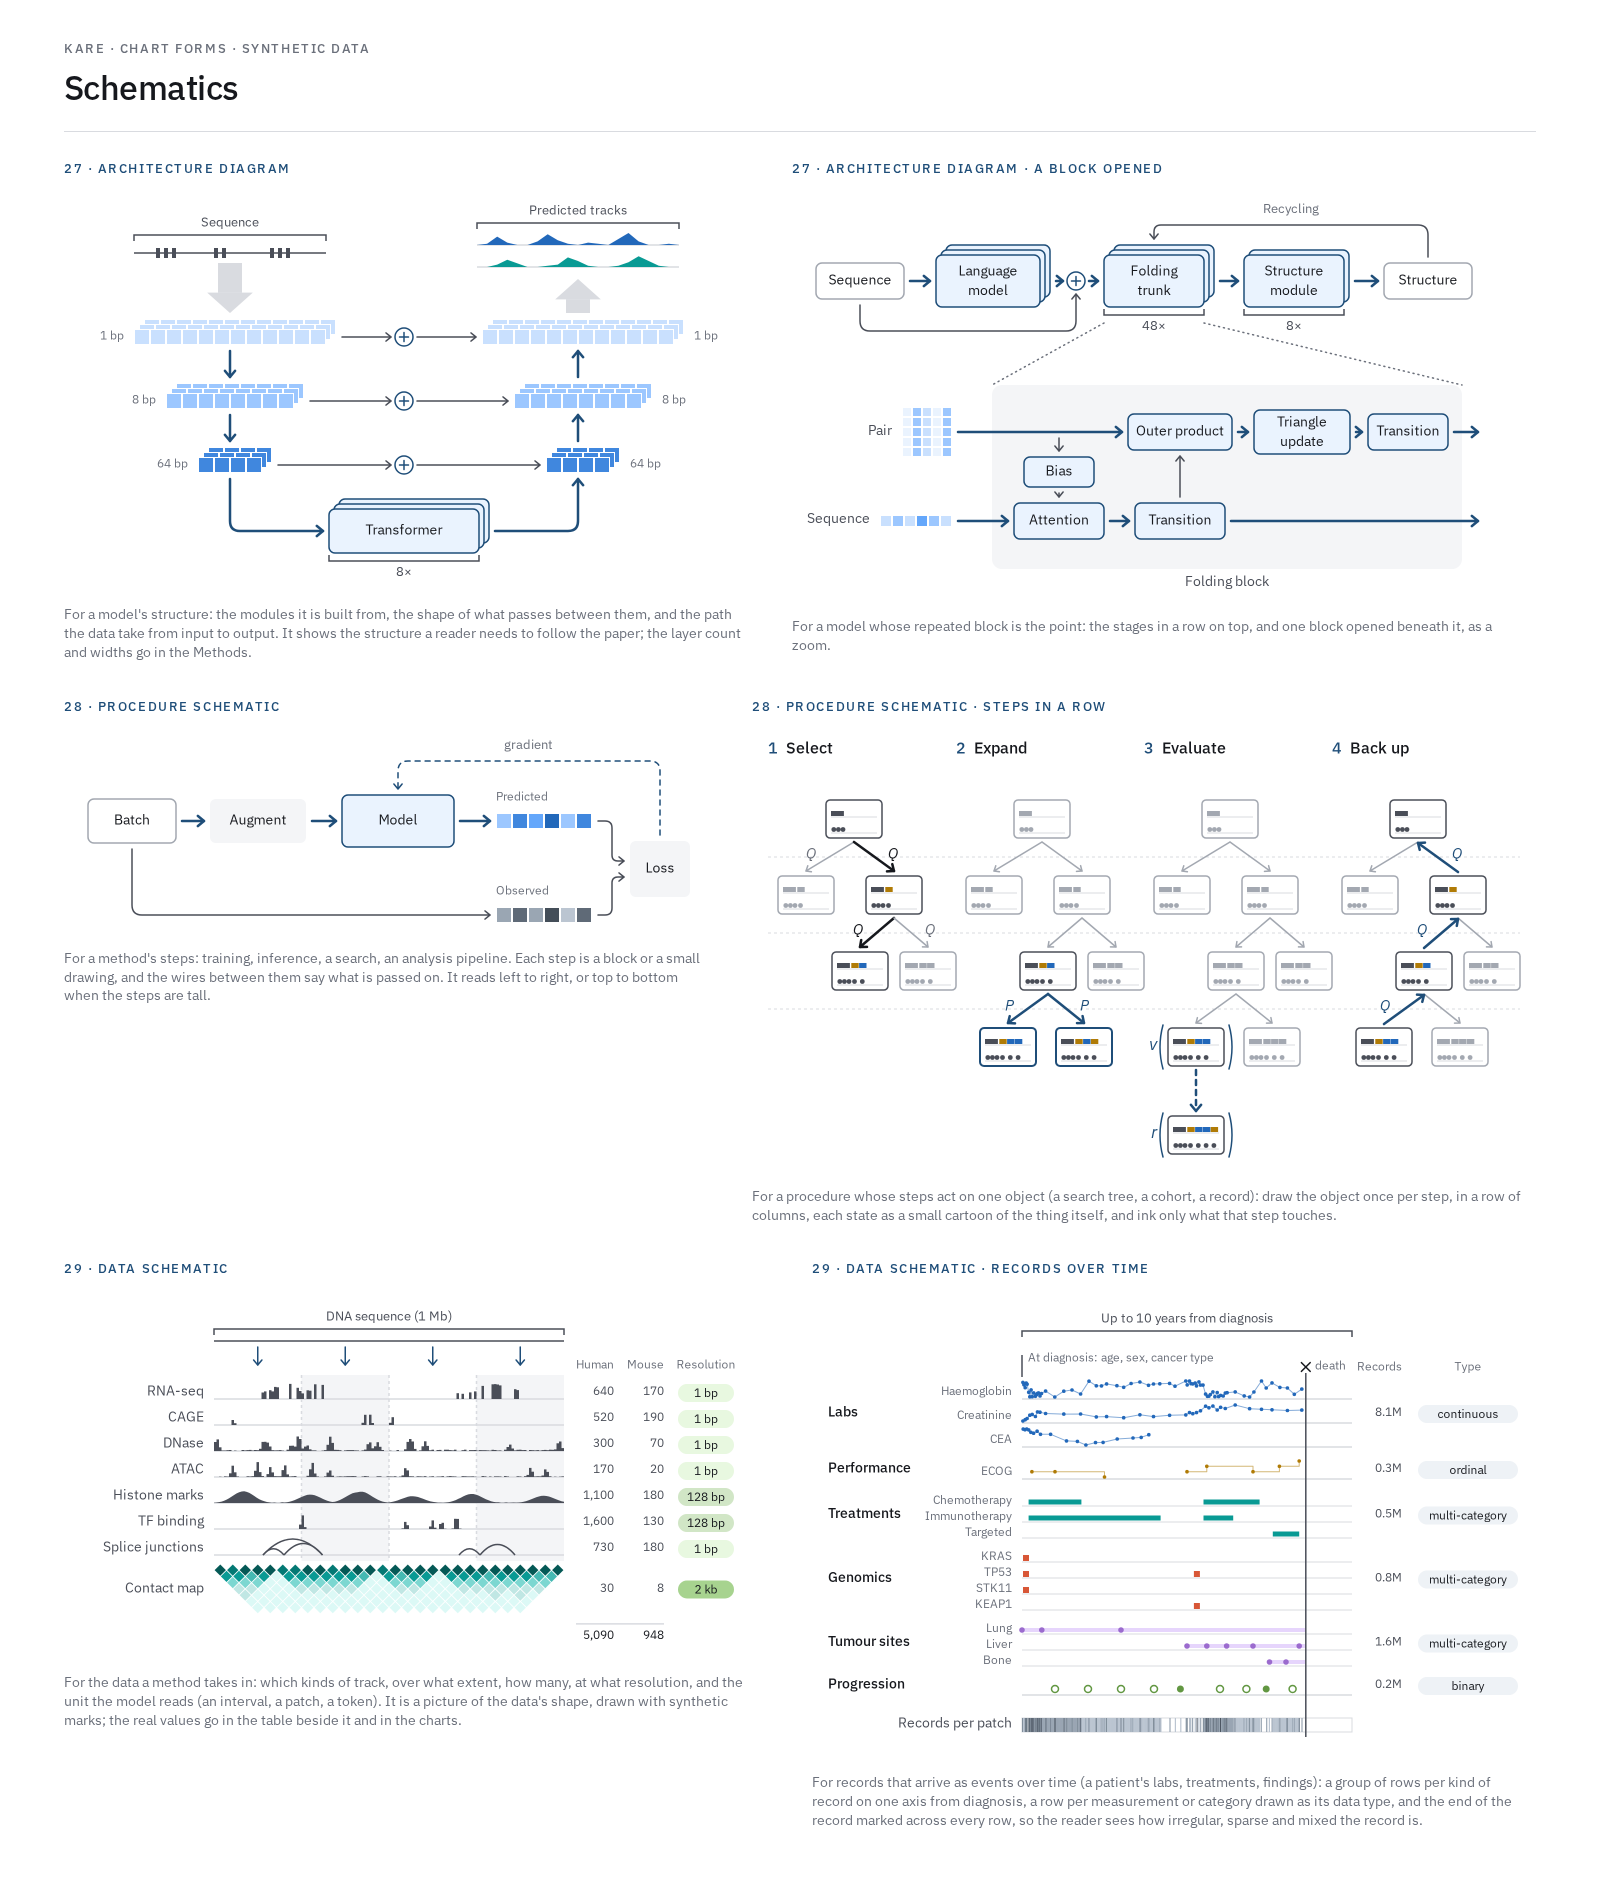
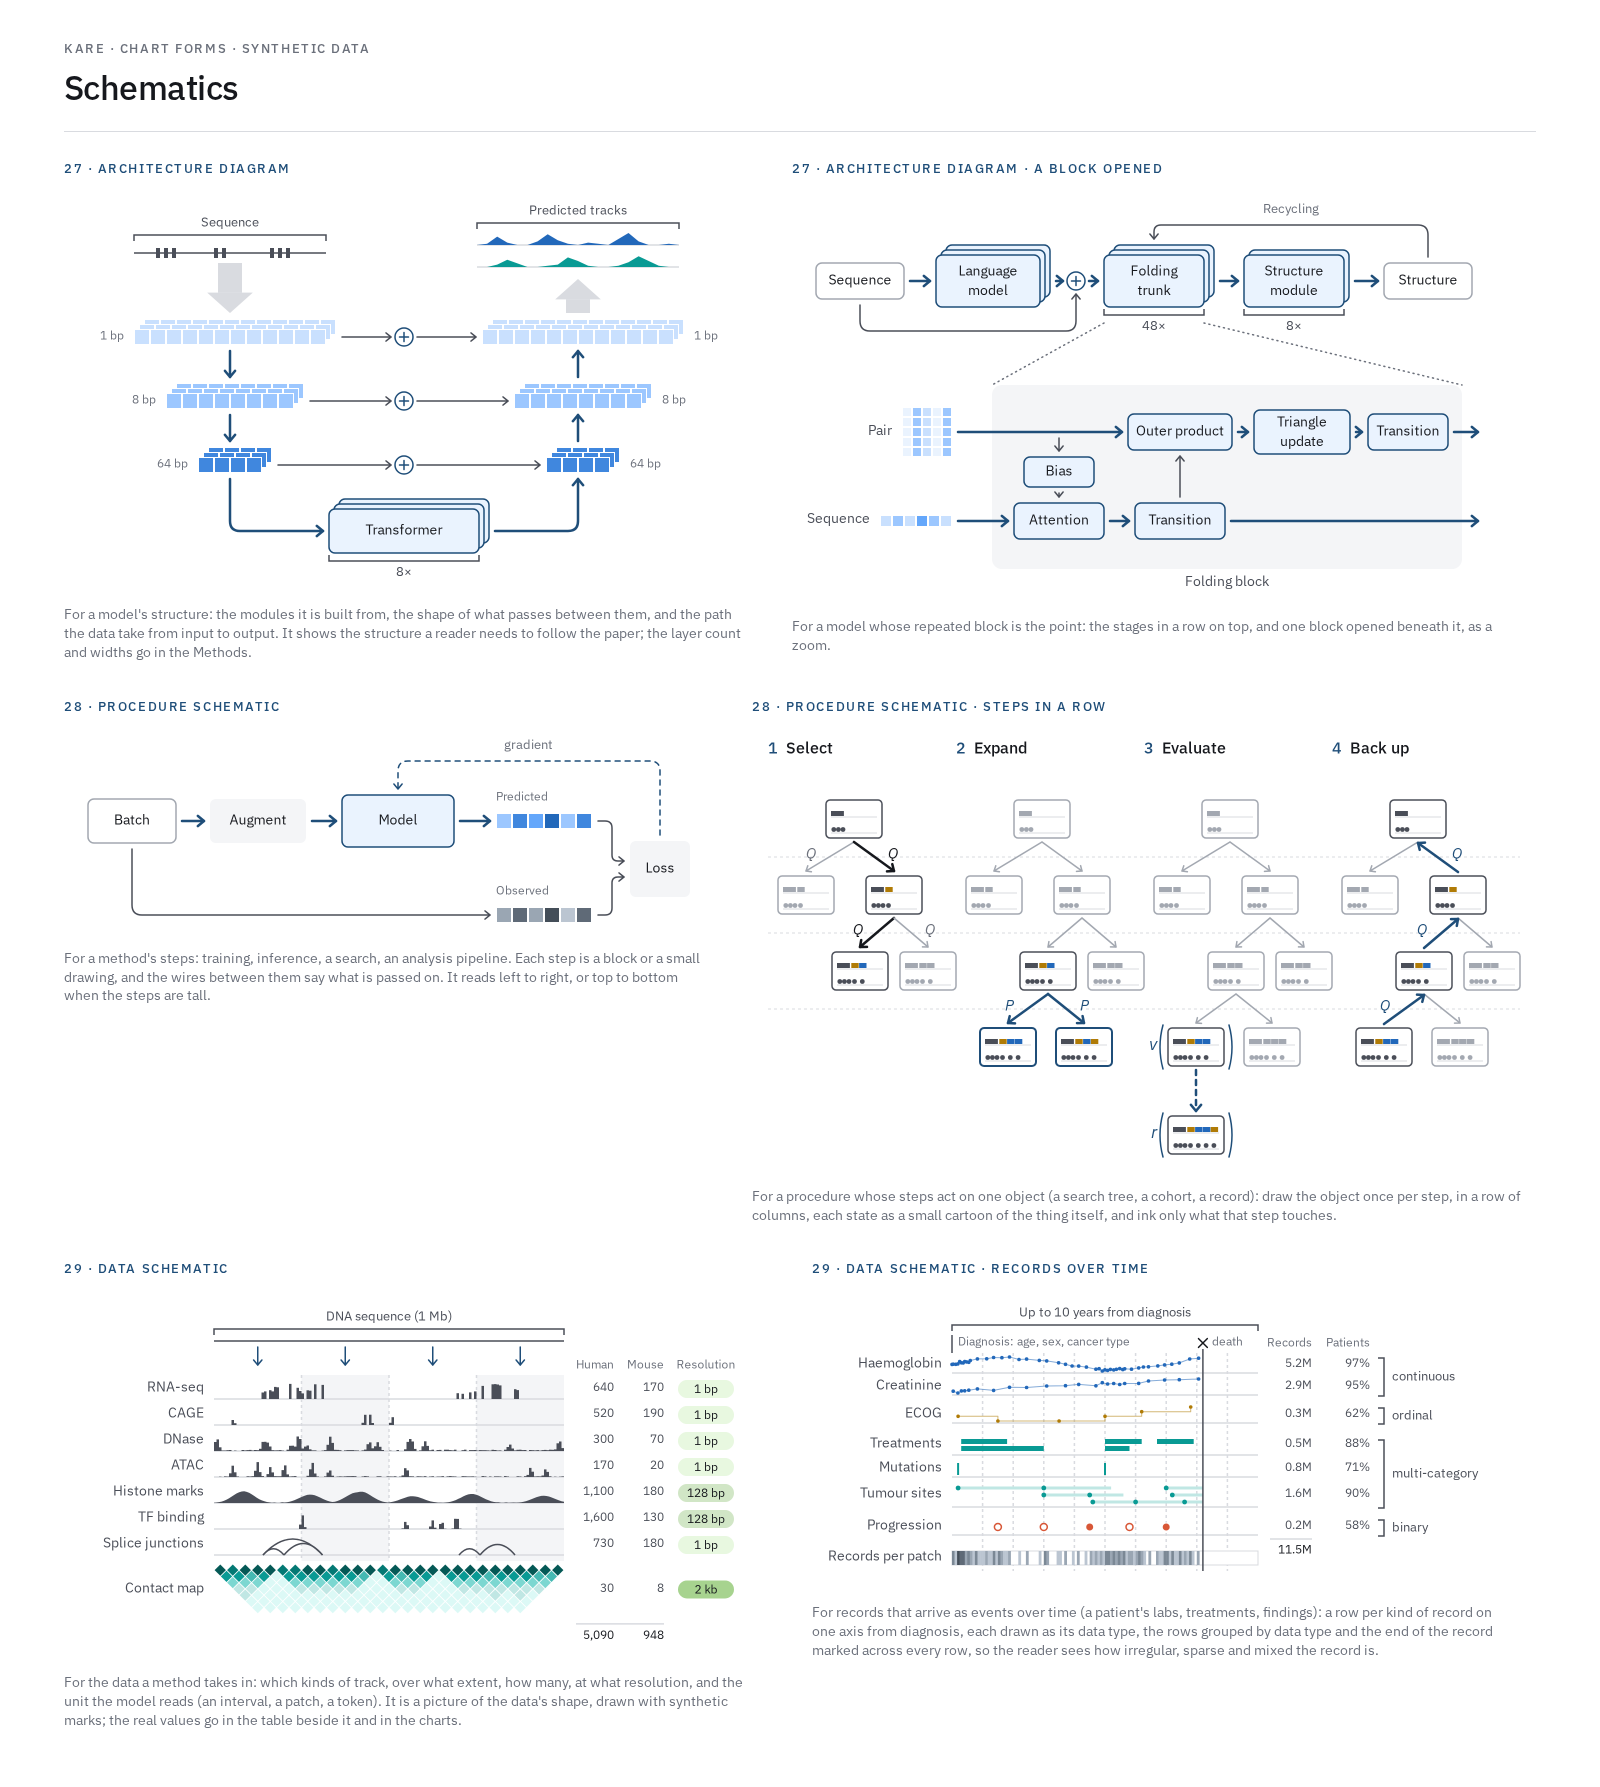
Redraw form 29's records over time by data type; centre track marks, add lanes

diff --git a/kit/ga-schematic.js b/kit/ga-schematic.js
@@ -223,6 +223,8 @@
     //     persist: { from, to, at } (a state that holds once found: a light bar from
     //     `from` to `to`, a dot at each time in `at`); density: counts per bin (a strip
     //     on the slate ramp, empty bins blank)
+    //   row.lanes: spans data is [[[a, b], …], …] and persist data [{ spans, at }, …],
+    //     one stacked lane each (overlapping treatments; sites that clear and return)
     //   pitch per row (default o.pitch); a row of pitch < 20 is compact: tick-size name.
     //   group: rows that share it are named once, left-aligned at o.groupX, beside them,
     //     in label 500; the rows inside it are named in tick.
@@ -243,7 +245,7 @@
       const bottom = acc;
       const X = (u) => f1(x0 + u * o.w);
       const base = (i) => tops[i] + ph(o.rows[i]) - (ph(o.rows[i]) < 20 ? 3 : 6);
-      const mid = (i) => base(i) - (ph(o.rows[i]) < 20 ? 4 : 6);
+      const mid = (i) => ph(o.rows[i]) < 20 ? base(i) - 4 : (tops[i] + base(i)) / 2; // centred between the row's top and its baseline
       let back = "", marks = "";
       if (o.stripes) for (let k = 1; k < P; k += 2) back += `<rect x="${X(k / P)}" y="${top - 4}" width="${f1(o.w / P)}" height="${bottom - top + 4}" fill="var(--wash)"/>`;
       if (o.patches && o.dividers !== false) for (let k = 1; k < P; k++) back += `<path d="M${X(k / P)} ${top - 4}V${bottom}" stroke="var(--rule)" stroke-width="1.5" stroke-dasharray="3 3"/>`;
@@ -253,6 +255,11 @@
         if (row.kind === "events") for (const u of row.data) marks += `<circle cx="${X(u)}" cy="${cy}" r="${compact ? 2.8 : 3.5}" fill="${col}"/>`;
         else if (row.kind === "squares") for (const u of row.data) marks += `<rect x="${f1(+X(u) - 3)}" y="${f1(cy - 3)}" width="6" height="6" fill="${col}"/>`;
         else if (row.kind === "binary") for (const [u, v] of row.data) marks += GA.glyph("circle", +X(u), cy, v ? { size: 8, fill: col } : { size: 7, fill: "var(--paper)", ring: col, ringW: 1.5 });
+        else if (row.kind === "persist" && row.lanes) row.data.forEach((lane, k) => {
+          const ly = cy + (k - (row.data.length - 1) / 2) * 7;
+          for (const [a, b] of lane.spans) marks += `<rect x="${X(a)}" y="${f1(ly - 1.5)}" width="${f1((b - a) * o.w)}" height="3" fill="${row.light || col}"/>`;
+          for (const u of lane.at) marks += `<circle cx="${X(u)}" cy="${f1(ly)}" r="2.4" fill="${col}"/>`;
+        });
         else if (row.kind === "persist") {
           const { from, to, at = [] } = row.data;
           marks += `<rect x="${X(from)}" y="${f1(cy - 2)}" width="${f1((to - from) * o.w)}" height="4" fill="${row.light || col}"/>` + at.map((u) => `<circle cx="${X(u)}" cy="${cy}" r="2.8" fill="${col}"/>`).join("");
@@ -273,8 +280,9 @@
           back += `<rect x="${x0}" y="${f1(cy - hh / 2)}" width="${o.w}" height="${hh}" fill="var(--paper)" stroke="var(--rule)" stroke-width="1"/>`;
           row.data.forEach((c, j) => { if (c > 0) marks += `<rect x="${f1(x0 + j * bw)}" y="${f1(cy - hh / 2)}" width="${f1(bw + 0.3)}" height="${hh}" fill="var(--slate-${100 * Math.min(7, 2 + Math.round((c / mx) * 5))})"/>`; });
         }
-        else if (row.kind === "ticks") for (const u of row.data) marks += `<path d="M${X(u)} ${y - 12}V${y - 1}" stroke="${col}" stroke-width="2"/>`;
-        else if (row.kind === "spans") for (const [a, b] of row.data) marks += `<rect x="${X(a)}" y="${compact ? f1(cy - 2.5) : y - 10}" width="${f1((b - a) * o.w)}" height="${compact ? 5 : 7}" fill="${col}"/>`;
+        else if (row.kind === "ticks") for (const u of row.data) marks += `<path d="M${X(u)} ${f1(cy - 6)}V${f1(cy + 6)}" stroke="${col}" stroke-width="2"/>`;
+        else if (row.kind === "spans" && row.lanes) row.data.forEach((lane, k) => { const ly = cy + (k - (row.data.length - 1) / 2) * 7; for (const [a, b] of lane) marks += `<rect x="${X(a)}" y="${f1(ly - 2.5)}" width="${f1((b - a) * o.w)}" height="5" fill="${col}"/>`; });
+        else if (row.kind === "spans") for (const [a, b] of row.data) marks += `<rect x="${X(a)}" y="${compact ? f1(cy - 2.5) : f1(cy - 3.5)}" width="${f1((b - a) * o.w)}" height="${compact ? 5 : 7}" fill="${col}"/>`;
         else if (row.kind === "signal") {
           const step = o.w / (row.data.length - 1);
           marks += `<path d="M${x0} ${y}${row.data.map((v, j) => `L${f1(x0 + j * step)} ${f1(y - v * H)}`).join("")}L${x1} ${y}Z" fill="${col}"/>`;

diff --git a/core/charts/forms/29-data-schematic.md b/core/charts/forms/29-data-schematic.md
@@ -85,78 +85,84 @@ ga.text("948", { x: T.colX({ dx: 100 }), y: ty + 6, anchor: "end", role: "tick",
 ## Records over time
 
 For records that arrive as events over time (a patient's labs, treatments, findings):
-a group of rows per kind of record on one axis from diagnosis, a row per measurement
-or category drawn as its data type, and the end of the record marked across every
-row, so the reader sees how irregular, sparse and mixed the record is.
+a row per kind of record on one axis from diagnosis, each drawn as its data type,
+the rows grouped by data type and the end of the record marked across every row,
+so the reader sees how irregular, sparse and mixed the record is.
 
-- **Rows are grouped by kind of record**, the kind named once at the left in `label`
-  at 500, and each row named beside the axis in `tick`. A categorical kind takes
-  one compact 16 px row per category, so it reads as categories, not as one track.
+- **One row per kind of record**, named at the left in `label`, rows of a data type
+  together with a small gap between types. A right bracket names each data type
+  once: continuous, ordinal, multi-category, binary.
+- **Colour is the data type**, identity slots in order (`../../color.md`); every
+  row of a type takes its colour.
 - **Each kind keeps its own shape and sampling.** Labs are measured values at
   irregular times, dense around diagnosis and each new line of therapy, joined only
-  across short gaps so missing time stays empty; some stop being measured. Each
-  value row spans its own range; there is no value axis. An ordinal score snaps to
-  its levels and steps between them. Treatments are intervals, one row per drug
-  class, overlapping when given together. A genomic finding is a square at its
-  test. A tumour site holds once found: a light bar from the first finding to the
-  end of the record, a dot at each mention. A binary assessment is a hollow circle
-  for no and a filled one for yes.
-- **Colour is the kind of record**, identity slots in order (`../../color.md`).
+  across short gaps so missing time stays empty; there is no value axis. An ordinal
+  score snaps to its levels and steps between them. Treatments are intervals in
+  stacked lanes (`lanes`), overlapping when given together. A mutation is a tick at
+  its test. Tumour sites are one lane each: a light bar while the site is present, a
+  dot at each mention, so a site can clear on treatment and come back after
+  progression. A binary assessment is a hollow circle for no and a filled one for yes.
+- **Marks sit centred** between the row's top and its baseline.
 - **What holds for the whole record is an annotation, not a track**: demographics
-  at diagnosis are a short mark and a `tick` note at the start of the axis.
+  at diagnosis are a short mark and a `tick` note at the start of the axis, on the
+  line of the end mark.
 - **The end of the record is a vertical line through every row**: solid with an x
   for death, dotted with a hollow circle for censoring (*Glyphs*); the axis beyond it
   stays empty.
-- **Records per patch** is one strip under the rows, the 10-day patches the model
-  reads on the `slate` ramp, empty patches blank, with no key: darker is more.
-- **The table** gives each kind its records and its data type in a `slate-100`
-  pill: continuous, ordinal, categorical, multi-category, binary.
+- **Records per patch** is one strip under the rows on the `slate` ramp, empty
+  patches blank, with no key: darker is more.
+- **The table** gives each row its records and the share of patients with any;
+  the records' total sits under a hairline below the last counted row.
 
-![A synthetic patient's record over ten years: three labs and a performance score sampled irregularly, treatments, genomic findings and tumour sites as one row per category, binary progression assessments, the record ending in death; records per 10-day patch as one strip; a table of records and data types](out/29-data-schematic.records-over-time.png)
+![A synthetic patient's record over ten years: two labs and a performance score sampled irregularly, treatments in two lanes, mutations, three tumour sites that clear and return, binary progression assessments, the record ending in death; records per 10-day patch as one strip; records and patients per row, bracketed by data type](out/29-data-schematic.records-over-time.png)
 
-```js figure=records-over-time w=722 h=480
+```js figure=records-over-time w=700 h=310
 const S = GA.schematic(ga);
-const X = 210, W = 330, rnd = GA.rng(17), END = 0.86;
-// --- a synthetic record (no patient data); times are fractions of ten years
-const times = (segs) => segs.flatMap(([a, b, st]) => { const t = []; for (let u = a + st * rnd(); u < b; u += st * (0.6 + 0.8 * rnd())) t.push(u); return t; });
-const onTx = (u) => (u > 0.02 && u < 0.18) || (u > 0.55 && u < 0.72);
-const clip = (v) => Math.max(0, Math.min(1, v));
-const hgbT = times([[0, 0.06, 0.004], [0.06, 0.5, 0.024], [0.5, 0.62, 0.006], [0.62, END, 0.02]]);
-const hgb = hgbT.map((u) => [u, clip(0.7 - (onTx(u) ? 0.35 : 0) - (u > 0.74 ? 0.35 * (u - 0.74) / 0.12 : 0) + 0.3 * (rnd() - 0.5))]);
-const cre = hgbT.filter((_, i) => i % 2 === 0).map((u) => [u, clip(0.15 + 0.6 * u + (onTx(u) ? 0.2 : 0) + 0.25 * (rnd() - 0.5))]);
-const cea = times([[0, 0.05, 0.008], [0.05, 0.42, 0.035]]).map((u) => [u, clip((u < 0.2 ? 0.95 - 3.5 * u : 0.25 + 2.5 * (u - 0.2)) + 0.15 * (rnd() - 0.5))]);
-const ecog = [[0.03, 1], [0.1, 1], [0.25, 0], [0.5, 1], [0.56, 2], [0.7, 1], [0.78, 2], [0.84, 3]];
-const tx = { Chemotherapy: [[0.02, 0.18], [0.55, 0.72]], Immunotherapy: [[0.02, 0.42], [0.55, 0.64]], Targeted: [[0.76, 0.84]] };
-const gen = { KRAS: [0.012], TP53: [0.012, 0.53], STK11: [0.012], KEAP1: [0.53] };
-const sites = { Lung: { from: 0, to: END, at: [0, 0.06, 0.3] }, Liver: { from: 0.5, to: END, at: [0.5, 0.56, 0.62, 0.7, 0.84] }, Bone: { from: 0.75, to: END, at: [0.75, 0.8] } };
-const prog = [[0.1, 0], [0.2, 0], [0.3, 0], [0.4, 0], [0.48, 1], [0.6, 0], [0.68, 0], [0.74, 1], [0.82, 0]];
-// records per 10-day patch, over every row above
-const NP = 365, all = [...hgb, ...cre, ...cea, ...ecog, ...prog].map(([u]) => u).concat(Object.values(gen).flat(), Object.values(sites).flatMap((x) => x.at));
-const density = Array.from({ length: NP }, (_, j) => {
-  const lo = j / NP, hi = (j + 1) / NP;
-  return all.filter((u) => u >= lo && u < hi).length + Object.values(tx).flat().filter(([a, b]) => a < hi && b > lo).length;
-});
-const c = (k) => `var(--cat-${k})`, G = 8;
-const rows = [
-  { group: "Labs", name: "Haemoglobin", kind: "values", color: c(1), data: hgb, pitch: 24 },
-  { group: "Labs", name: "Creatinine", kind: "values", color: c(1), data: cre, pitch: 24 },
-  { group: "Labs", name: "CEA", kind: "values", color: c(1), data: cea, pitch: 24, gapAfter: G },
-  { group: "Performance", name: "ECOG", kind: "values", levels: 4, gap: 0.2, color: c(2), data: ecog, pitch: 24, gapAfter: G },
-  ...Object.entries(tx).map(([k, d], i, a) => ({ group: "Treatments", name: k, kind: "spans", color: c(3), data: d, pitch: 16, gapAfter: i === a.length - 1 ? G : 0 })),
-  ...Object.entries(gen).map(([k, d], i, a) => ({ group: "Genomics", name: k, kind: "squares", color: c(4), data: d, pitch: 16, gapAfter: i === a.length - 1 ? G : 0 })),
-  ...Object.entries(sites).map(([k, d], i, a) => ({ group: "Tumour sites", name: k, kind: "persist", color: c(5), light: tok("violet-200"), data: d, pitch: 16, gapAfter: i === a.length - 1 ? G : 0 })),
-  { group: "Progression", kind: "binary", color: c(6), data: prog, pitch: 24, gapAfter: 16 },
-  { name: "Records per patch", kind: "density", data: density, pitch: 20 },
+const X = 140, W = 306, END = 0.82, P = 10, top = 72, G = 6, rnd = GA.rng(7);
+// synthetic labs: dense near diagnosis and each new line of therapy
+const t = (segs) => segs.flatMap(([a, b, st]) => { const r = []; for (let u = a + st * rnd(); u < b; u += st * (0.6 + 0.8 * rnd())) r.push(u); return r; });
+const lt = t([[0, 0.06, 0.006], [0.06, 0.48, 0.03], [0.48, 0.56, 0.008], [0.56, END, 0.025]]);
+const hgb = lt.map((u) => [u, 0.5 + 0.35 * Math.sin(u * 9) + 0.15 * rnd()]);
+const cre = lt.filter((_, i) => i % 2).map((u) => [u, 0.2 + 0.7 * u + 0.15 * rnd()]);
+const ecog = [[0.02, 1], [0.15, 0], [0.35, 0], [0.5, 1], [0.62, 2], [0.78, 3]];
+const tx = [[0.03, 0.18], [0.5, 0.62], [0.67, 0.79]], mut = [0.02, 0.5];
+const tx2 = [tx, [[0.03, 0.3], [0.5, 0.58]]];
+// three sites: two clear on treatment and come back after progression
+const sites = [
+  { spans: [[0.02, 0.52], [0.7, END]], at: [0.02, 0.3, 0.7] },
+  { spans: [[0.3, 0.56], [0.72, END]], at: [0.3, 0.45, 0.72] },
+  { spans: [[0.46, END]], at: [0.46, 0.6, 0.76] },
 ];
-const top = 96;
-S.bracket({ x0: X, x1: X + W, y: top - 50, side: "top", label: "Up to 10 years from diagnosis" });
-// demographics: an annotation at the start of the axis, not a track
-ga.raw(`<path d="M${X} ${top - 26}V${top - 4}" stroke="var(--ink-2)" stroke-width="1.5"/>`);
-ga.text("At diagnosis: age, sex, cancer type", { x: X + 6, y: top - 29, role: "tick", size: 12, color: "var(--muted)" });
-S.tracks({ x: X, y: top, w: W, groupX: 16, groupCols: true, rows, end: { u: END, kind: "death", label: "death" }, cols: [
-  { title: "Records", dx: 50, values: ["8.1M", "0.3M", "0.5M", "0.8M", "1.6M", "0.2M", null] },
-  { title: "Type", dx: 166, w: 100, values: ["continuous", "ordinal", "multi-category", "multi-category", "multi-category", "binary", null], pill: () => tok("slate-100") },
+const site = { at: sites.flatMap((l) => l.at) };
+const prog = [[0.15, 0], [0.3, 0], [0.45, 1], [0.58, 0], [0.7, 1]];
+const NP = 120, all = [...hgb, ...cre, ...ecog, ...prog].map((d) => d[0]).concat(mut, site.at);
+const density = Array.from({ length: NP }, (_, j) => { const lo = j / NP, hi = (j + 1) / NP; return all.filter((u) => u >= lo && u < hi).length + tx.filter(([a, b]) => a < hi && b > lo).length; });
+const rows = [
+  { name: "Haemoglobin", color: "var(--cat-1)", kind: "values", gap: 0.05, data: hgb },
+  { name: "Creatinine", color: "var(--cat-1)", kind: "values", gap: 0.08, gapAfter: G, data: cre },
+  { name: "ECOG", color: "var(--cat-2)", kind: "values", levels: 4, gap: 0.2, gapAfter: G, data: ecog },
+  { name: "Treatments", color: "var(--cat-3)", kind: "spans", lanes: true, pitch: 26, data: tx2 },
+  { name: "Mutations", color: "var(--cat-3)", kind: "ticks", data: mut },
+  { name: "Tumour sites", color: "var(--cat-3)", kind: "persist", lanes: true, pitch: 30, light: tok("teal-200"), gapAfter: G, data: sites },
+  { name: "Progression", color: "var(--cat-4)", kind: "binary", gapAfter: G + 4, data: prog },
+  { name: "Records per patch", kind: "density", pitch: 20, data: density },
+];
+S.bracket({ x0: X, x1: X + W, y: 40, side: "top", label: "Up to 10 years from diagnosis" });
+const T = S.tracks({ x: X, y: top, w: W, pitch: 22, patches: P, rows, end: { u: END, kind: "death", label: "death" }, cols: [
+  { title: "Records", dx: 54, values: ["5.2M", "2.9M", "0.3M", "0.5M", "0.8M", "1.6M", "0.2M", null] },
+  { title: "Patients", dx: 112, values: ["97%", "95%", "62%", "88%", "71%", "90%", "58%", null] },
 ] });
+// one bracket per data type
+const types = [["continuous", 0, 1], ["ordinal", 2, 2], ["multi-category", 3, 5], ["binary", 6, 6]];
+const bx = T.colX({ dx: 126 });
+for (const [name, a, b] of types) S.bracket({ x: bx, y0: T.rowY(a) - 15, y1: T.rowY(b) + 1, side: "right", label: name, size: 13 });
+// the total right under the last counted row
+const ty = T.rowY(6) + 4;
+ga.raw(`<path d="M${T.colX({ dx: 12 })} ${ty}H${T.colX({ dx: 54 })}" stroke="var(--rule)" stroke-width="1.5"/>`);
+ga.text("11.5M", { x: T.colX({ dx: 54 }), y: ty + 5, anchor: "end", role: "tick", size: 12, color: "var(--ink)" });
+// what holds for the whole record, on the line of the end mark
+ga.raw(`<path d="M${X} ${top - 22}V${top - 4}" stroke="var(--ink-2)" stroke-width="1.5"/>`);
+ga.text("Diagnosis: age, sex, cancer type", { x: X + 6, y: top - 21, role: "tick", size: 12, color: "var(--muted)" });
 ```
 
 ## In each format
